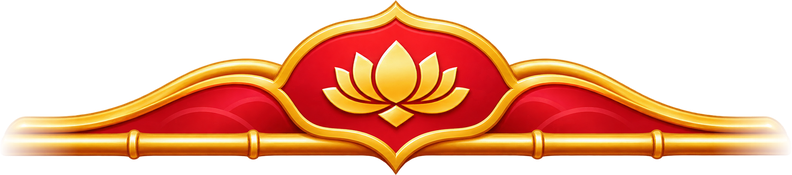
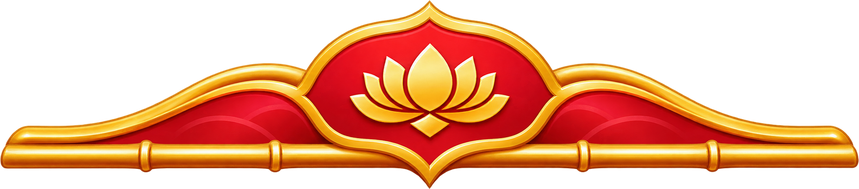
Khung sen: thanh vàng chóp = ống tre (cùng dày, cùng màu, khớp liền), bỏ làm mờ đầu thanh, chóp đáy đủ hình
Claude-Session: https://claude.ai/code/session_015r7QjvgWpavV7UHFjkKbAg

diff --git a/src/tools/sen/lam_khung.py b/src/tools/sen/lam_khung.py
@@ -26,19 +26,9 @@ def crop_bb(im):
     return im.crop(im.getbbox())
 
 
-def pale(im):   # tre nhạt như ảnh mẫu Kho (vàng mật nhạt, không cam): giảm bão hoà, sáng lên chút
-    a = np.array(im).astype(np.float32)
-    rgb = a[:, :, :3]
-    g = rgb.mean(2, keepdims=True)
-    rgb = g + (rgb - g) * 0.8
-    rgb = rgb * 0.92 + np.array([238, 214, 160], np.float32) * 0.08
-    a[:, :, :3] = np.clip(rgb, 0, 255)
-    return Image.fromarray(a.astype(np.uint8), 'RGBA')
-
-
 M = {"T": T, "giay": [251, 242, 229]}
 # ---- tre: lấy hết từ ảnh góc (cùng độ dày, cùng ánh sáng): góc cong, ống trơn ngang/dọc, mắt tre ngang/dọc
-g = pale(load('01_goc_tre_tron.png'))
+g = load('01_goc_tre_tron.png')   # giữ màu vàng gốc: cùng màu thanh vàng của chóp
 OX, OY = 100, 116                     # mép ngoài ống ngang (trên) / ống dọc (trái) của ảnh góc
 C = 700                               # góc cắt tới trước mắt tre đầu (mắt ở ~600-672)
 goc = g.crop((OX, OY, C, C))
@@ -63,27 +53,19 @@ def put(name, fname, css_w, anchor, cx, cy, cut=None):
     return im
 
 
-def fade_ends(im, y0, frac):   # đầu thanh vàng dưới chân chóp mờ dần vào ống tre khung (không lòi đầu thanh)
-    a = np.array(im).astype(np.float32); w = a.shape[1]
-    x = np.arange(w); r = np.clip(np.minimum(x, w - 1 - x) / (w * frac), 0, 1)
-    a[y0:, :, 3] *= r[None, :]
-    return Image.fromarray(a.astype(np.uint8), 'RGBA')
-
-
 def rot(deg):
     return lambda im: crop_bb(im).rotate(deg, resample=Image.BICUBIC, expand=True)
 
 
 # chóp đỉnh: thanh vàng dưới chân chóp đè đúng giữa ống tre trên
-im = crop_bb(load('04_chop_do_dinh.png')); bar_c = (1107 - 797) / im.height
-put('dinh', '04_chop_do_dinh.png', 132, [0.5, 0.0], 0.5, bar_c, lambda im: fade_ends(crop_bb(im), 1045 - 797, 0.1))
-M['dinh']['dy'] = T / 2; M['dinh']['fw'] = [0.58, 160, 230]   # ảnh mẫu: dải đỏ 640/1112 = 58% bề ngang
-def mid(im):   # chóp đáy: chỉ lấy chóp giữa + khúc vàng ngắn hai bên (ảnh mẫu không có dải đỏ dài dưới đáy)
-    im = crop_bb(im); w = im.width
-    return fade_ends(im.crop((int(w * 0.365), 0, int(w * 0.635), im.height)), 1020 - 794, 0.22)
-im = mid(load('05_chop_do_day.png')); bar_c = (1069 - 794) / im.height
-put('day', '05_chop_do_day.png', 112, [0.5, 1.0], 0.5, bar_c, mid)
-M['day']['dy'] = -T / 2; M['day']['fw'] = [0.095, 30, 34]   # ảnh mẫu: chóp đáy ~ 30 css
+# thanh vàng chân chóp CHÍNH LÀ một khúc ống tre trên: cỡ chóp lấy theo thanh dày đúng T (thanh 90 px ảnh gốc), đè khít ống tre,
+# đầu thanh tròn nằm trên ống như một mắt tre (không mờ, không cắt)
+im = crop_bb(load('04_chop_do_dinh.png')); bar_c = (1112 - 797) / im.height
+put('dinh', '04_chop_do_dinh.png', im.width * T / 90.0, [0.5, 0.0], 0.5, bar_c)
+M['dinh']['dy'] = T / 2
+im = crop_bb(load('05_chop_do_day.png')); bar_c = (1069 - 794) / im.height
+put('day', '05_chop_do_day.png', im.width * T / 70.0, [0.5, 1.0], 0.5, bar_c)   # thanh 70 px = T
+M['day']['dy'] = -T / 2
 # hoa sen góc: tràn ra ngoài khung một phần
 put('hoa_tt', '06_hoa_sen_goc_tren_trai.png', 78, [0.0, 0.0], 0.22, 0.36, rot(28))   # xéo theo góc: lá rủ xuống mép trái
 put('hoa_dp', '07_hoa_sen_goc_duoi_phai.png', 96, [1.0, 1.0], 0.78, 0.66, rot(24))   # xéo theo góc dưới phải
